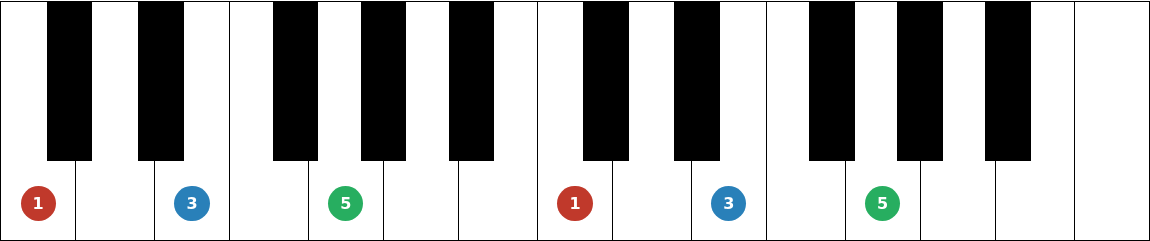
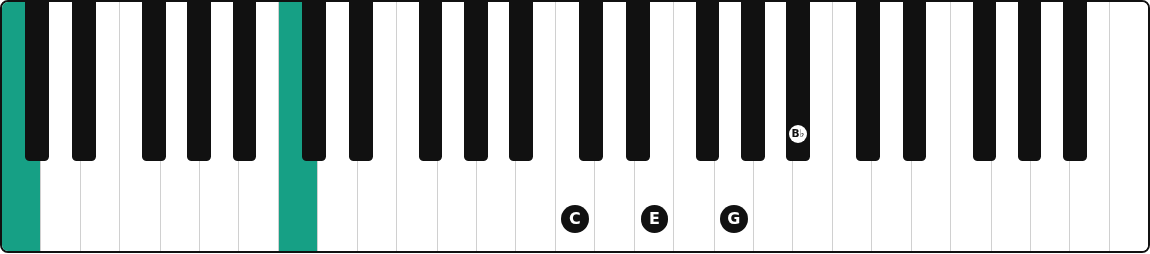
docs(mq-piano): add a usage showcase and refresh the screenshot
Since the component ships unstyled and is now locked to real piano proportions,
the previous screenshot — a coloured, stretched keyboard — no longer
matched the real output and overlapped with the mq-piano-chord visual.

The end-of-page example doubles as the screenshot source, so the hero image
stays reproducible and shows how parts and slots dress an otherwise bare
keyboard. The PNG is transparent to sit on any background.

diff --git a/src/mq-piano/mq-piano.html b/src/mq-piano/mq-piano.html
@@ -705,6 +705,79 @@
       <p class="caption"><code>width: 560px; height: 90px</code> — keys stretch to fill</p>
     </section>
 
+    <h2>Putting it all together</h2>
+
+    <section>
+      <p class="desc">
+        A four-octave keyboard at real proportions with classic black-and-white keys, annotated with
+        a <strong>C7</strong> chord on the third octave — each key in the chord carries its note name
+        on a pill (dark on white keys, light on the black <code>B♭</code>). The two lower
+        <code>C</code> keys are tinted to mark the chord's root pitch-class.
+      </p>
+      <style>
+        .showcase {
+          container-type: inline-size;
+          border-radius: 0.5em;
+          overflow: hidden;
+          --mq-piano-border-color: #d0d0d0;
+          --mq-piano-border-color-outer: #111;
+          --mq-piano-border-width-outer: 2px;
+          --mq-piano-black-key-height: 64%;
+        }
+        .showcase::part(key-white) {
+          background: #fff;
+        }
+        .showcase::part(key-black) {
+          background: #111;
+          border-radius: 0 0 0.4cqi 0.4cqi;
+        }
+        /* Root pitch-class tinted on the two octaves below the chord. */
+        .showcase::part(note-c2),
+        .showcase::part(note-c3) {
+          background: #16a085;
+        }
+        .showcase::part(key-white),
+        .showcase::part(key-black) {
+          display: flex;
+          flex-direction: column;
+          align-items: center;
+          justify-content: flex-end;
+        }
+        .showcase .pill {
+          --pill-size: 2.4cqi;
+          font-size: calc(var(--pill-size) * 0.58);
+          min-width: var(--pill-size);
+          height: var(--pill-size);
+          line-height: var(--pill-size);
+          padding: 0 0.4cqi;
+          margin-bottom: 1.6cqi;
+          border-radius: 999px;
+          text-align: center;
+          font-weight: 700;
+          font-family: system-ui, sans-serif;
+        }
+        .showcase .pill.on-white {
+          background: #111;
+          color: #fff;
+        }
+        /* The light pill sits on a black key (~60% the width of a white one), so it must
+           stay clear of the narrow key's edges — trimmed smaller, with no side padding. */
+        .showcase .pill.on-black {
+          --pill-size: 1.6cqi;
+          padding: 0;
+          background: #fff;
+          color: #111;
+        }
+      </style>
+      <mq-piano class="showcase" start-note="C2" end-note="C6">
+        <div slot="note-C4" class="pill on-white">C</div>
+        <div slot="note-E4" class="pill on-white">E</div>
+        <div slot="note-G4" class="pill on-white">G</div>
+        <div slot="note-Bb4" class="pill on-black">B♭</div>
+      </mq-piano>
+      <p class="caption">C7 chord (C – E – G – B♭) on the third octave · root pitch-class tinted below</p>
+    </section>
+
     <footer><code>&lt;mq-piano&gt;</code> · musique</footer>
   </body>
 </html>
